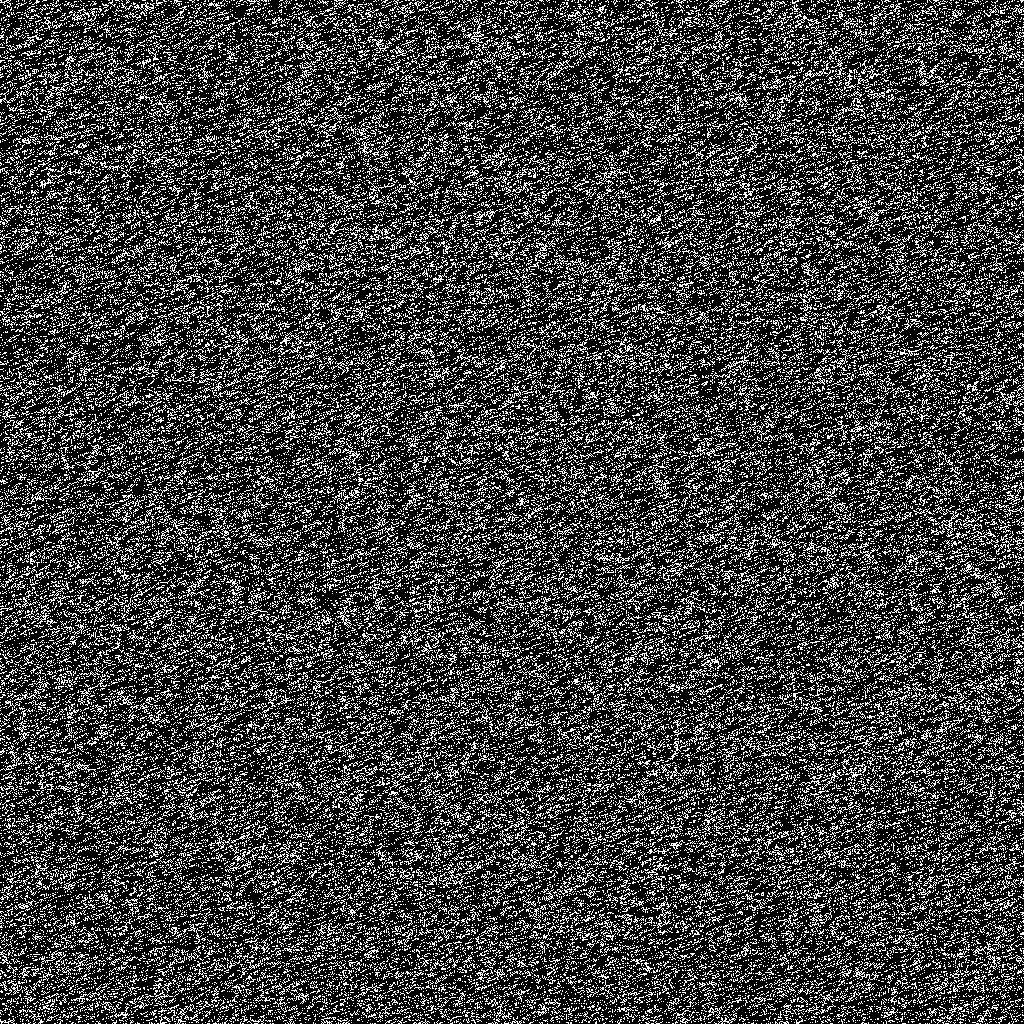
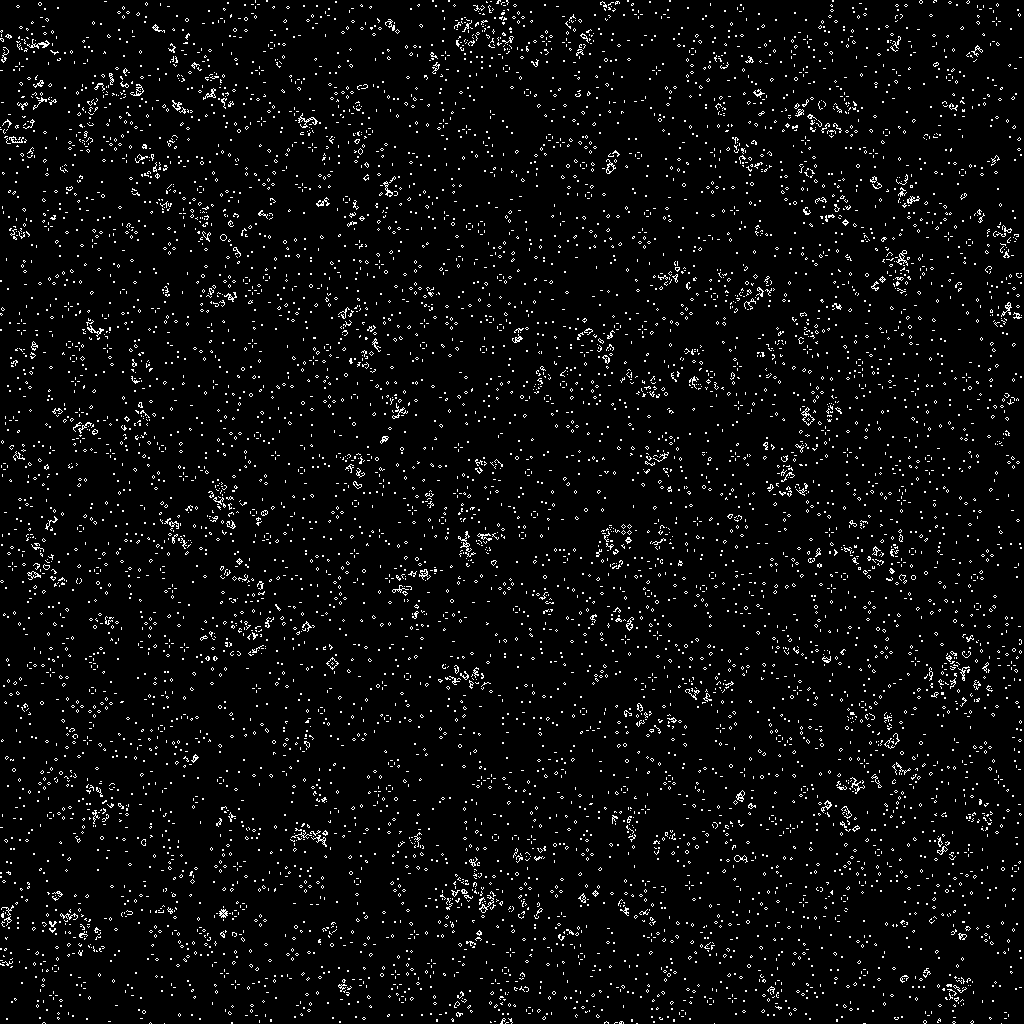
refactor: Update LocalHyperGraph to allow updating nodes and simplify memory conversion in main.rs, improve output in convolution.wgsl

Changed region(s): [[0.0, 0.0, 1.0, 1.0]]

diff --git a/src/main.rs b/src/main.rs
@@ -48,9 +48,9 @@ async fn main() {
 
     let mut graph = new_game_of_life_hyper_graph(mem);
 
-    let nodes = *graph.nodes();
+    let mut nodes = *graph.nodes();
 
-    let mut mem_2 = box_array![LifeState(0); WH];
+    // let mut mem_2 = box_array![LifeState(0); WH];
 
     for _ in tqdm!(0..1000) {
         let mem = nodes.iter().map(|x| x.0 as f32).collect::<Vec<f32>>();
@@ -63,11 +63,11 @@ async fn main() {
 
         let res_data_len = res.data.len();
 
-        mem_2.iter_mut().enumerate().for_each(|(i, x)| {
+        nodes.iter_mut().enumerate().for_each(|(i, x)| {
             *x = LifeState(res.data[i % res_data_len] as u8);
         });
 
-        graph.update_nodes(mem_2.clone());
+        graph.update_nodes(Box::new(nodes));
     }
 
     let mut img: RgbImage = ImageBuffer::new(W as u32, H as u32);
